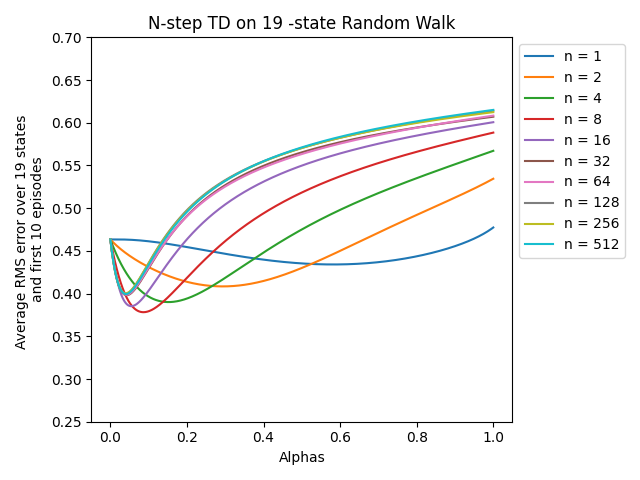
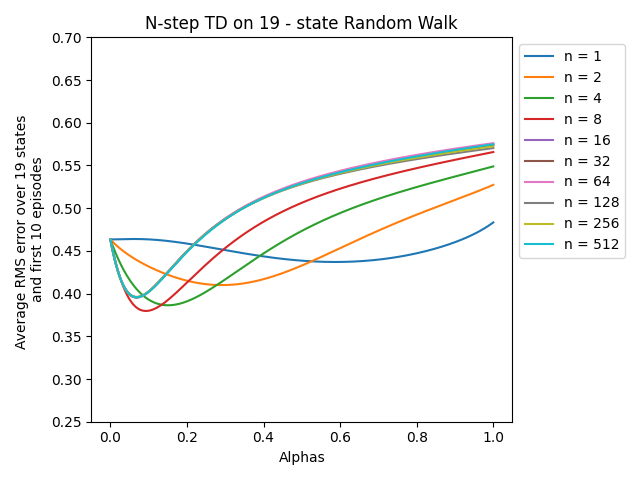
TODO: TD SUM

diff --git a/random_walk.py b/random_walk.py
@@ -45,7 +45,7 @@ Does the N-Step TD method for an alpha value using the random walk example from 
 Inputs: rw_env, ALPHAS, n (for n_steps), EPSILON, GAMMA, EPISODES
 
 ''' 
-def N_Step_TD(rw_env, n, ALPHAS, EPSILON=0.1,  GAMMA=0.95, EPISODES=10):
+def N_Step_TD(rw_env, n, ALPHAS, EPSILON=0.1,  GAMMA=0.95, EPISODES=10,TD_SUM = False):
       
     #policy based on bellman equation
     policy = np.zeros(rw_env.num_states)
@@ -74,6 +74,7 @@ def N_Step_TD(rw_env, n, ALPHAS, EPSILON=0.1,  GAMMA=0.95, EPISODES=10):
         rw_env.reset()
         states[0] = rw_env.curr_state
         action = greedy_policy(rw_env.curr_state)
+        TD_ERR_SUM = 0
         
         curr_time = 0
         T = float('inf')
@@ -101,10 +102,13 @@ def N_Step_TD(rw_env, n, ALPHAS, EPSILON=0.1,  GAMMA=0.95, EPISODES=10):
                     G += pow(GAMMA, i - (tau - 1)) * rewards[i % (n + 1)]
                 if (tau + n) < T:
                     G += pow(GAMMA, n) * values[ :, int(states[(tau + n) % (n + 1)])]
-
+                    
                 values[ :, int(states[tau % (n + 1)])] += ALPHAS * (G - values[ :, int(states[tau % (n + 1)])])
                 
-
+                if TD_SUM == True:
+                    TD_ERR_SUM = G - values[ :, int(states[tau % (n + 1)])]        
+                    values[ :, int(states[tau % (n + 1)])] += ALPHAS * TD_ERR_SUM
+    
             if tau >= T - 1:
                 break
             
@@ -134,17 +138,21 @@ def run_sim():
     for n in N_STEPS:
         print("N: ", n)
         errors = np.zeros((ALPHAS.shape[0], RUNS))
+        errors2 = np.zeros((ALPHAS.shape[0], RUNS))
         for r in range(RUNS):
-            errors[ :, r] = N_Step_TD(rw_env, n, ALPHAS, EPSILON, GAMMA, EPISODES)
+            errors[ :, r] = N_Step_TD(rw_env, n, ALPHAS, EPSILON, GAMMA, EPISODES,TD_SUM=False)
+            errors2[ :, r] = N_Step_TD(rw_env, n, ALPHAS, EPSILON, GAMMA, EPISODES,TD_SUM=True)
         
         #Average the errors over the runs.
         errors = np.mean(errors, axis=-1)
+        errors2 = np.mean(errors, axis=-1)
         #Plot
         plt.plot(ALPHAS, errors, label="n = {}".format(n))
+
         
     print("Done.")
     
-    plt.title("N-step TD on {} -state Random Walk".format(NUM_STATES))
+    plt.title("N-step TD on {} - state Random Walk".format(NUM_STATES))
     plt.xlabel("Alphas")
     plt.ylabel("Average RMS error over {} states \nand first {} episodes".format(NUM_STATES, EPISODES))
     plt.ylim([0.25, 0.70])
